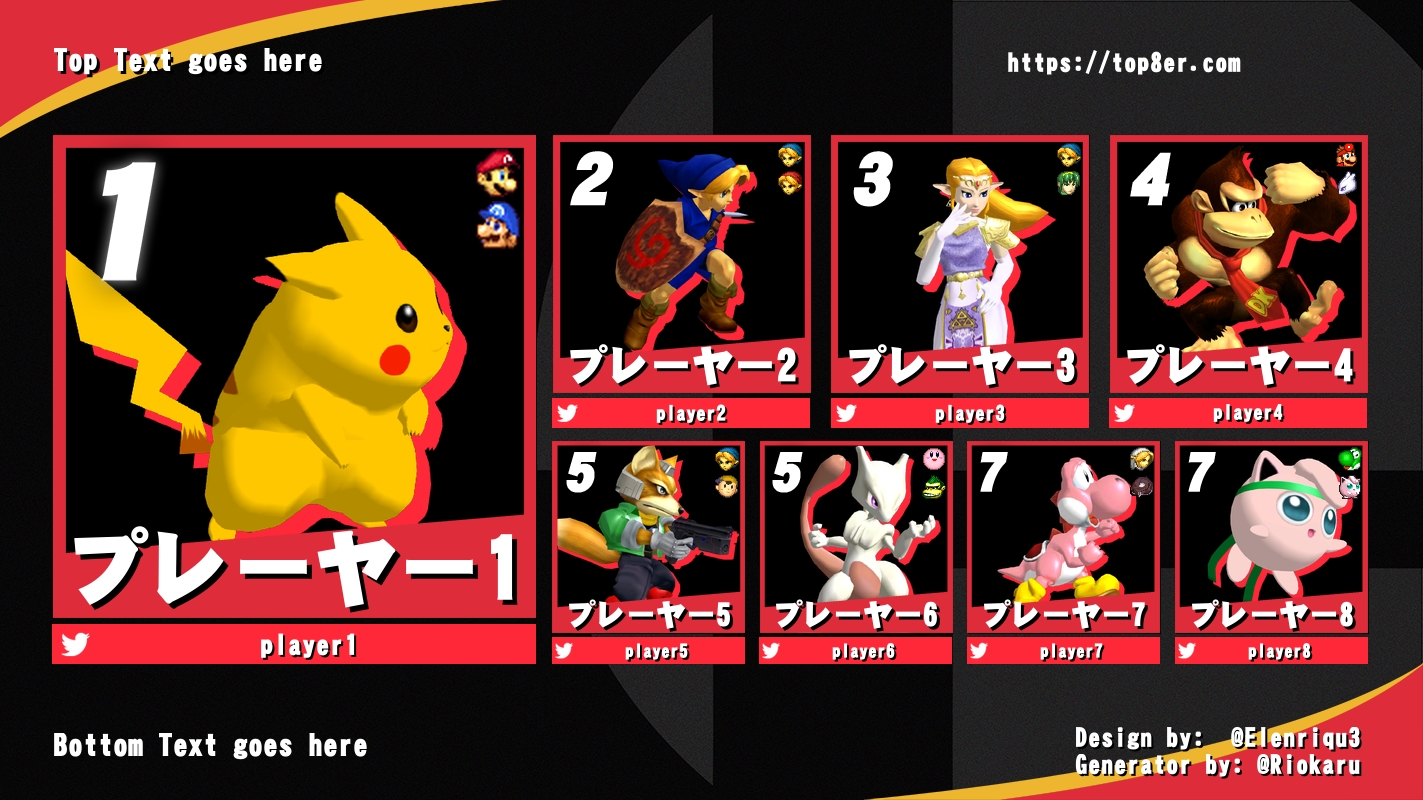
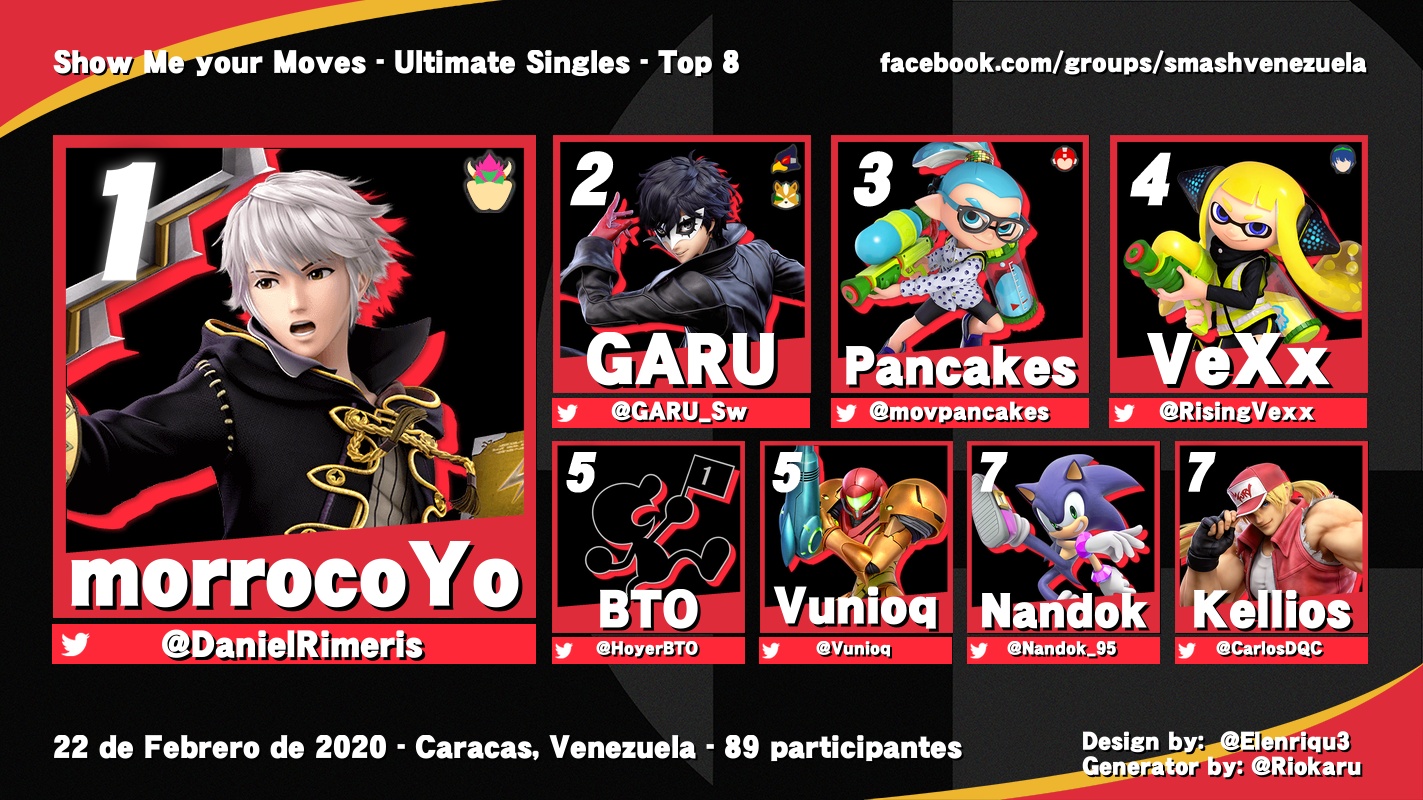
extra font with support for escandinavian characters

diff --git a/templates/index.html b/templates/index.html
@@ -607,8 +607,8 @@
 		<h3>Platform Fighters</h3>
 		<a href="https://www.top8er.com/"><img src="https://i.imgur.com/Wrah6Pl.png"></a>
 		<a href="https://www.top8er.com/melee"><img src="https://i.imgur.com/HoHdXyg.png" style="width: 225px; height: auto;"></a>
-		<a href="https://www.top8er.com/RushdownRevolt"><img src="https://i.imgur.com/V3IYMCo.png"></a>
 		<a href="https://www.top8er.com/rivals"><img src="https://i.imgur.com/Ct5bPHG.png"></a>
+		<a href="https://www.top8er.com/RushdownRevolt"><img src="https://i.imgur.com/V3IYMCo.png"></a>
 
 		<h3>2D Fighters</h3>
 		<a href="https://www.top8er.com/skullgirls"><img src="https://i.imgur.com/KOdBCXI.png"></a>

diff --git a/generar/perro.py b/generar/perro.py
@@ -17,9 +17,7 @@ def has_glyph(font, glyph):
             return True
     return False
 
-def best_font(text) :
-    f1 = os.path.join('fonts','DFGothic-SU-WING-RKSJ-H-03.ttf')
-    f2 = os.path.join('fonts','sansthirteenblack.ttf')
+def best_font(text, f1, f2) :
     font1 = TTFont(f1)
     font2 = TTFont(f2)
     count1 = 0
@@ -31,25 +29,19 @@ def best_font(text) :
             count2 += 1
     if count2 < count1 : return f2
     else : return f1
-    
 
-def fit_text(img, draw, box, text, fontdir, guess=30, align="left", alignv="top",
-             shadow=True):
-    #fontdir = best_font(text)
-    x1,y1,x2,y2 = box
-    c1,c2 = (x2-x1, y2-y1)
+def fitting_font(draw, width, height, text, fontdir, guess) :
     lo = 1
     hi = guess
     guess = (lo+hi)//2
     fuente = ImageFont.truetype(fontdir, guess)
-    x,y = draw.textsize(text, font=fuente) #text_size(text, fuente)
-    #while x > c1 or y > c2 :
+    x,y = draw.textsize(text, font=fuente)
     #intentos = 1
     lold, hiold = lo, hi
     while lo+1 < hi :
         #intentos += 1
         #guess -= 1
-        if x > c1 or y > c2 :
+        if x > width or y > height :
             hi = guess
         else :
             lo = guess
@@ -60,34 +52,57 @@ def fit_text(img, draw, box, text, fontdir, guess=30, align="left", alignv="top"
         fuente = ImageFont.truetype(fontdir, guess)
         x,y = draw.textsize(text, font=fuente) #text_size(text, fuente)
     #print("intentos:", intentos)
+    return fuente
+
+        
+def fit_text(img, draw, box, text, fontdir, guess=30, align="left", alignv="top",
+             shadow=True, forcedfont=None):
+    #fontdir = best_font(text)
+    x1,y1,x2,y2 = box
+    width,height = (x2-x1, y2-y1)
+
+    if forcedfont is None :
+        fuente = fitting_font(draw, width, height, text, fontdir, guess)
+    else :
+        fuente = forcedfont
+        
+    x,y = draw.textsize(text, font=fuente)
+
     posx, posy = x1,y1
     
     if align == "center" :
-        posx += (c1-x)//2
-    if alignv == "bottom" :
-        posy += c2-y
-    elif alignv == "middle" :
-        posy += (c2-y)//2
-
+        posx += (width-x)//2
+    elif align == "right" :
+        posx += width-x
         
-    draw_text(img, draw, (posx, posy), text, font=fuente)
+    if alignv == "bottom" :
+        posy += height-y
+    elif alignv == "middle" :
+        posy += (height-y)//2
+
+    draw_text(img, draw, (posx, posy), text, font=fuente, shadow=True)
 
 def generate_banner(datos, prmode=False, blacksquares=True,
                     custombg=None, darkenbg=True,
                     customcolor=None, customcolor2=None,
-                    font="font.ttc", fontcolor=(255,255,255), shadow=True,
+                    font=None, fontcolor=(255,255,255), shadow=True,
                     icon_sizes=None) :
     game = datos["game"]
     players = datos["players"]
 
 
     path = os.path.realpath(__file__)
-    path= os.path.abspath(os.path.join(path, os.pardir))
+    path = os.path.abspath(os.path.join(path, os.pardir))
     template = os.path.join(path, "template")
     if font :
         fonttc = os.path.join(path, 'fonts', font)
     else :
-        fonttc = os.path.join(path, 'fonts', "font.ttc")
+        yog_sothoth = datos["toptext"]+datos["bottomtext"]+datos["url"]
+        for player in datos['players'] :
+            yog_sothoth += player['tag']
+        f1 = os.path.join(path, 'fonts','DFGothic-SU-WING-RKSJ-H-03.ttf')
+        f2 = os.path.join(path, 'fonts','sansthirteenblack.ttf')
+        fonttc = best_font(yog_sothoth, f1, f2)
 
     # Constantes
     portraits = os.path.join(path, "assets", game, "portraits")
@@ -194,13 +209,23 @@ def generate_banner(datos, prmode=False, blacksquares=True,
 
     # Textos de arriba y abajo
     fuente = ImageFont.truetype(fonttc, 30)
-    draw_text(c, draw, POSTXT[0], datos["toptext"], font=fuente, fill=fontcolor, shadow=True)
-    draw_text(c, draw, POSTXT[1], datos["bottomtext"], font=fuente, fill=fontcolor, shadow=False)
+    #draw_text(c, draw, POSTXT[0], datos["toptext"], font=fuente, fill=fontcolor, shadow=True)
+    #draw_text(c, draw, POSTXT[1], datos["bottomtext"], font=fuente, fill=fontcolor, shadow=False)
+
+    fit_text(c, draw, (53, 45, 803, 80), datos["toptext"], fonttc,
+             align="left", alignv="middle")
+    fit_text(c, draw, (53, 730, 997, 765), datos["bottomtext"], fonttc,
+             align="left", alignv="middle")
 
     fuente = ImageFont.truetype(fonttc, 25)
     urlmarg = (40-len(datos["url"]))*6
-    draw_text(c, draw, (POSTXT[2][0]+urlmarg,POSTXT[2][1]), datos["url"], font=fuente, fill=fontcolor, shadow=False)
-    draw_text(c, draw, POSTXT[3], "Design by:  @Elenriqu3\nGenerator by: @Riokaru", font=fuente, fill=fontcolor, shadow=True)
+    #draw_text(c, draw, (POSTXT[2][0]+urlmarg,POSTXT[2][1]), datos["url"], font=fuente, fill=fontcolor, shadow=False)
+    #draw_text(c, draw, POSTXT[3], "Design by:  @Elenriqu3\nGenerator by: @Riokaru", font=fuente, fill=fontcolor, shadow=True)
+
+    fit_text(c, draw, (1075, 726, 1361, 778), "Design by:  @Elenriqu3\nGenerator by: @Riokaru", fonttc,
+             align="right", alignv="middle")
+    fit_text(c, draw, (876, 45, 1367, 80), datos["url"], fonttc,
+             align="right", alignv="middle")
 
     # Ciclo de nombres
     pajarito = Image.open(os.path.join(template,"pajarito.png"))
@@ -228,26 +253,30 @@ def generate_banner(datos, prmode=False, blacksquares=True,
                     (int(POSTWI[i][0]+SIZETWI[i][0]*0.02), POSTWI[i][1]),
                     mask=pajarito)
 
-            lon = len(players[i]["twitter"])
-            sizef = (27*SIZETWI[i][1])//SIZETWI[0][1]
-            tmarg = (6*SIZETWI[i][1])//SIZETWI[0][1]
-            lmarg = (SIZETWI[i][0]-0.5*sizef*lon+pajarito.size[0])//2
+            #lon = len(players[i]["twitter"])
+            #sizef = (27*SIZETWI[i][1])//SIZETWI[0][1]
+            #tmarg = (6*SIZETWI[i][1])//SIZETWI[0][1]
+            #lmarg = (SIZETWI[i][0]-0.5*sizef*lon+pajarito.size[0])//2
 
-            """
+            #"""
             xmarg = pajarito.size[0]*1.2
-            tmarg = (SIZETWI[i][1])/SIZETWI[0][1]
-            bmarg = (SIZETWI[i][1])/SIZETWI[0][1]
+            tmarg = 0.1*SIZETWI[i][1]
+            bmarg = 0.1*SIZETWI[i][1]
 
             cajita_twitter = (POSTWI[i][0]+xmarg, POSTWI[i][1]+tmarg,
                               POSTWI[i][0]+SIZETWI[i][0]-xmarg, POSTWI[i][1]+SIZETWI[i][1]-bmarg)
 
-            fit_text(c, draw, cajita_twitter, players[i]["twitter"], fonttc, guess=54,
-                     align="center", alignv="middle")
-            """
+            width = cajita_twitter[2]-cajita_twitter[0]
+            height = cajita_twitter[3]-cajita_twitter[1]
+            ffont = fitting_font(draw, width, height, "A!"*8, fonttc, guess=54)
 
-            font = ImageFont.truetype(fonttc, sizef)
-            draw_text(c, draw, (POSTWI[i][0]+lmarg, POSTWI[i][1]+tmarg),
-                      players[i]["twitter"], font=font, fill=fontcolor, shadow=True)
+            fit_text(c, draw, cajita_twitter, players[i]["twitter"], fonttc, guess=54,
+                     align="center", alignv="middle", forcedfont=ffont, shadow=False)
+            #"""
+
+            #font = ImageFont.truetype(fonttc, sizef)
+            #draw_text(c, draw, (POSTWI[i][0]+lmarg, POSTWI[i][1]+tmarg),
+            #          players[i]["twitter"], font=font, fill=fontcolor, shadow=True)
 
         texto = players[i]["tag"].replace(". ", ".").replace(" | ", "|")
         """
@@ -302,11 +331,10 @@ if __name__ == "__main__":
     fuente = None
     ics = None
 
-    """
+    #"""
     texto = ["morrocoYo", "GARU", "Pancakes", "VeXx",
              "BTO", "Vunioq", "Nandok", "Kellios"]
-    texto = ["morrocoÑo", "GARÜ", "Pおncakes", "VeXx",
-             "BTØ", "Vünioq", "Ñandok", "Kellios"]
+    #texto = ["morrocoYó", "GARÜ", "Páncakes", "VëXx", "BTØ", "VüniØq", "Ñandok", "KëlliØs"]
     personajes = [("Robin", 0),
                   ("Joker", 0),
                   ("Inkling", 5),
@@ -317,6 +345,7 @@ if __name__ == "__main__":
                   ("Terry", 0)]
     twitter = ["@DanielRimeris", "@GARU_Sw", "@movpancakes", "@RisingVexx",
                "@HoyerBTO", "@Vunioq", "@Nandok_95", "@CarlosDQC"]
+    #twitter = ["@DanielRimeris69"]*8
     #twitter = ["A"*15 for i in range(8)]
     pockets = [[("Bowser", 5)], [("Falco", 5), ("Fox", 3)], [("Mega Man", 1)], [("Marth", 2)],
                [], [], [], []]
@@ -327,17 +356,25 @@ if __name__ == "__main__":
 
     datos = {"players" : players,
              "toptext" : "Show Me your Moves - Ultimate Singles - Top 8",
+             #"toptext" : "あ"*40,
              "bottomtext" : "22 de Febrero de 2020 - Caracas, Venezuela - 89 participantes",
+             #"bottomtext" : "あ"*50,
              "url" : "facebook.com/groups/smashvenezuela",
+             #"url" : "あ"*40,
              "game" : "ssbu"
              }
 
     cc1 = None
     cc2 = None
     ics = None
-    #fuente = "sansthirteenblack.ttf"
     #fuente = "sansblack.ttf"
-    """
+    #fuente = "sansthirteenblack.ttf"
+    #fuente = "DFGothic-SU-WIN-RKSJ-H-01.ttf"
+    #fuente = "DFGothic-SU-WINP-RKSJ-H-02.ttf"
+    #fuente = "DFGothic-SU-WING-RKSJ-H-03.ttf"
+    #fuente = "BlackHoleBB.ttf"
+    #fuente = "ComicSansMSRegular.ttf"
+    #"""
     
 
     """
@@ -478,7 +515,7 @@ if __name__ == "__main__":
     cc2 = (203, 198, 186)
     """
 
-    #"""
+    """
     import random
     C = {'Bowser': ['Default', 'Red', 'Blue', 'Black'], 'Captain Falcon': ['Default', 'Black', 'Red', 'White', 'Green', 'Blue'], 'Donkey Kong': ['Default', 'Black', 'Red', 'Blue', 'Green'], 'Dr Mario': ['Default', 'Red', 'Blue', 'Green', 'Black'], 'Falco': ['Default', 'Red', 'Blue', 'Green'], 'Fox': ['Default', 'Red', 'Blue', 'Green'], 'Ganondorf': ['Default', 'Red', 'Blue', 'Green', 'Purple'], 'Ice Climbers': ['Default', 'Green', 'Orange', 'Red'], 'Jigglypuff': ['Default', 'Red', 'Blue', 'Green', 'Yellow'], 'Kirby': ['Default', 'Yellow', 'Blue', 'Red', 'Green', 'White'], 'Link': ['Default', 'Red', 'Blue', 'Black', 'White'], 'Luigi': ['Default', 'White', 'Blue', 'Pink'], 'Mario': ['Default', 'Yellow', 'Black', 'Blue', 'Green'], 'Marth': ['Default', 'Red', 'Green', 'Black', 'White'], 'Mewtwo': ['Default', 'Red', 'Blue', 'Green'], 'Mr Game & Watch': ['Default', 'Red', 'Blue', 'Green'], 'Ness': ['Default', 'Yellow', 'Blue', 'Green'], 'Peach': ['Default', 'Yellow', 'White', 'Blue', 'Green'], 'Pichu': ['Default', 'Red', 'Blue', 'Green'], 'Pikachu': ['Default', 'Red', 'Blue', 'Green'], 'Roy': ['Default', 'Red', 'Blue', 'Green', 'Yellow'], 'Samus': ['Default', 'Pink', 'Black', 'Green', 'Purple'], 'Sheik': ['Default', 'Red', 'Blue', 'Green', 'White'], 'Yoshi': ['Default', 'Red', 'Blue', 'Yellow', 'Pink', 'Cyan'], 'Young Link': ['Default', 'Red', 'Blue', 'White', 'Black'], 'Zelda': ['Default', 'Red', 'Blue', 'Green', 'White']}
     def randchar() :
@@ -504,7 +541,7 @@ if __name__ == "__main__":
     cc1 = None
     cc2 = None
     ics = (48, 24)
-    #"""
+    """
 
     """
     import random

diff --git a/forms.py b/forms.py
@@ -97,7 +97,7 @@ def makeform(chars=None, numerito=None, numerito_extra=None, echars=None, hasext
 
         ttext = forms.CharField(label='Top Left Text', max_length=50, required=False)
         btext = forms.CharField(label='Bottom Text', max_length=70, required=False)
-        url = forms.CharField(label='Top Right', max_length=40, required=False, initial="https://top8er.com/")
+        url = forms.CharField(label='Top Right', max_length=55, required=False, initial="https://top8er.com/")
 
     class GenForm(NoExtraForm):
         extra11 = forms.ChoiceField(label='Secondary Character', choices=e_chars, required=False)
